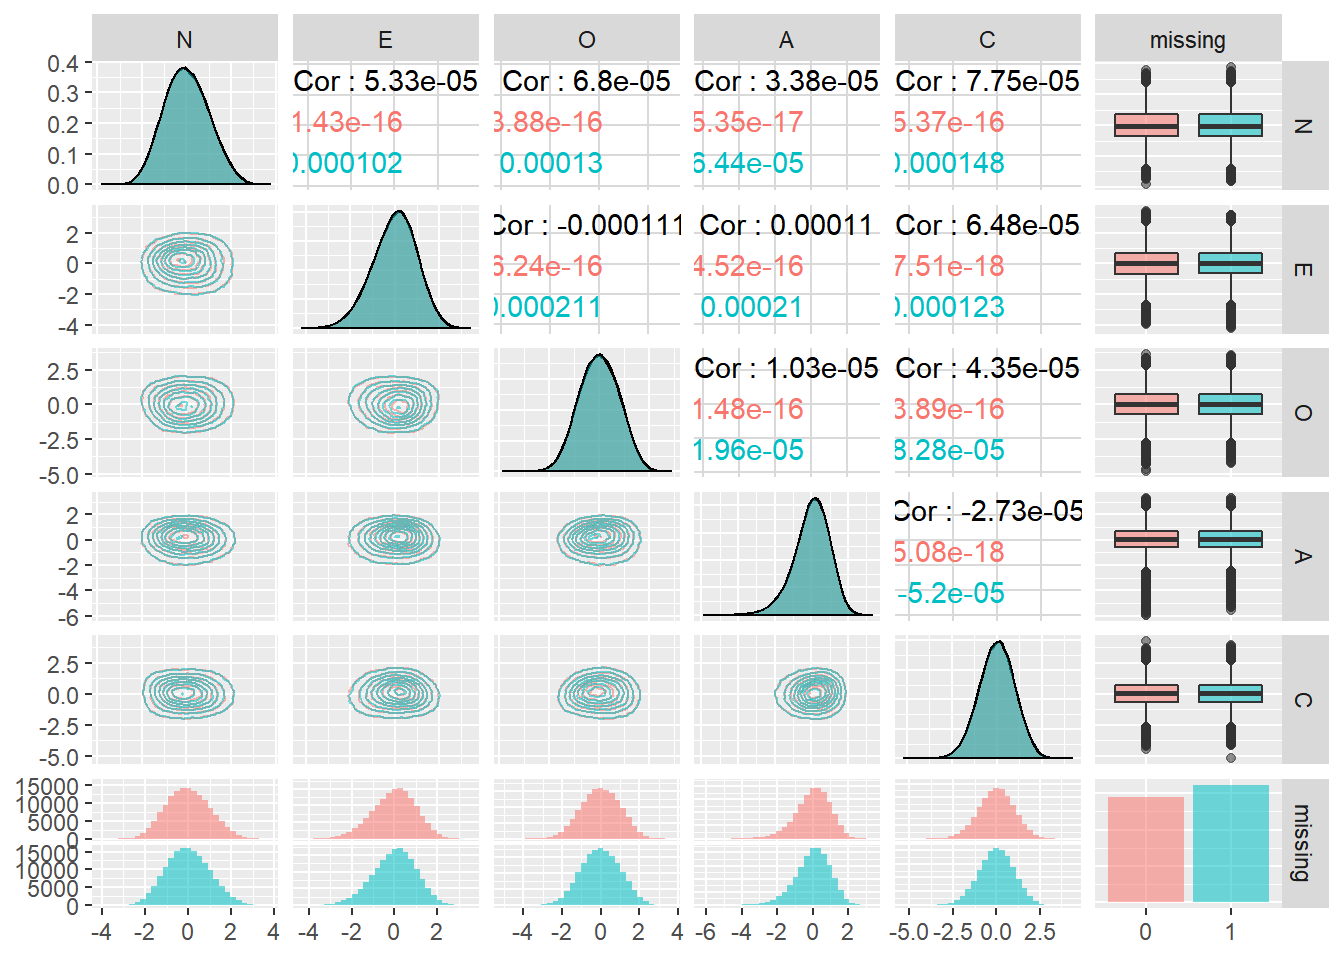
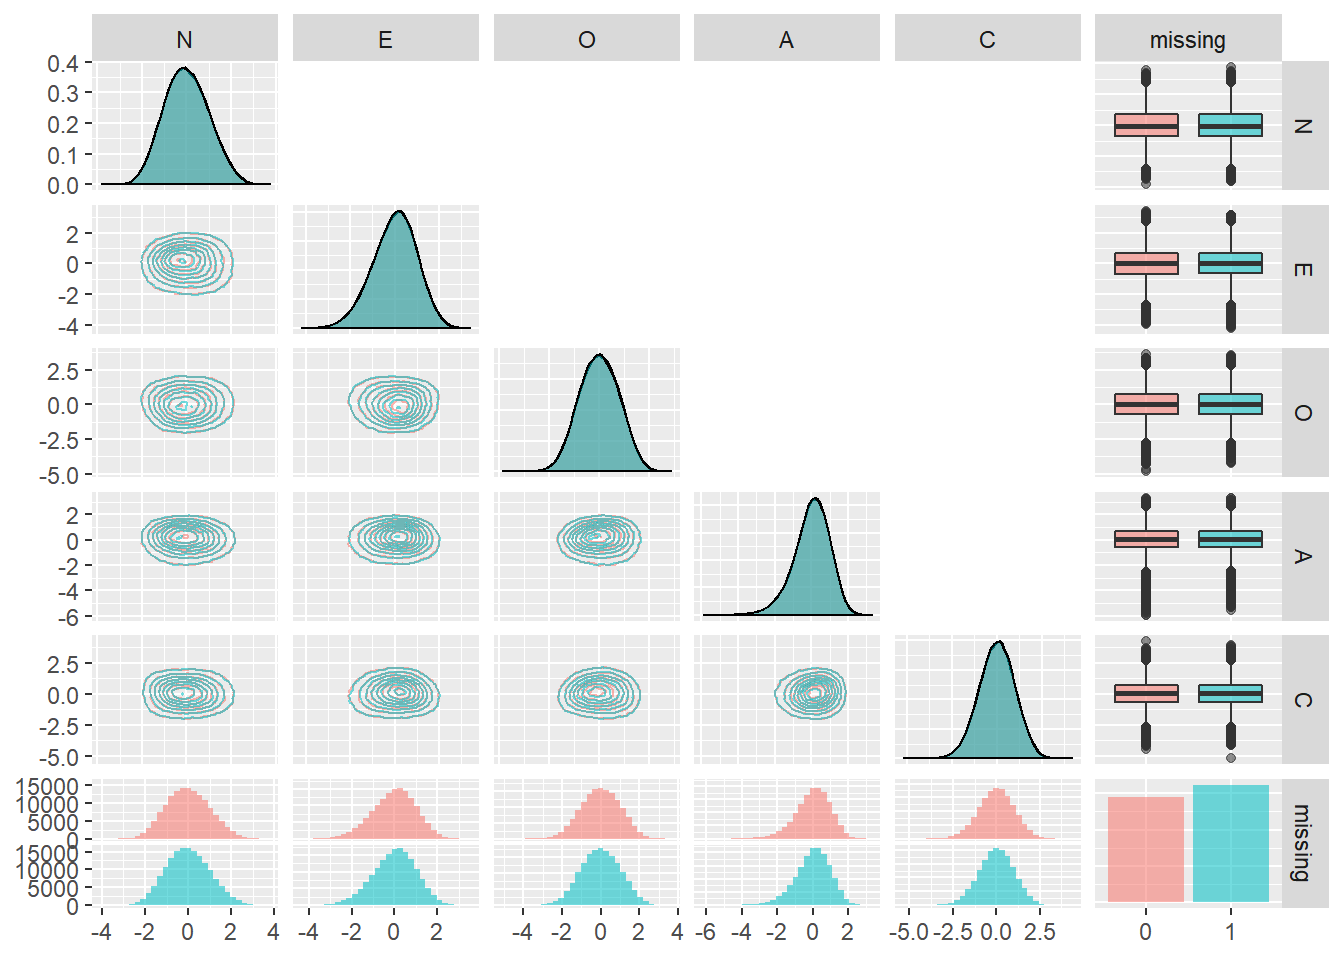
update

Changed region(s): [[0.2188, 0.0625, 0.8125, 0.1875], [0.5, 0.375, 0.8125, 0.6562], [0.3438, 0.2188, 0.8125, 0.3438]]

diff --git a/docs/analyze_IPIP300imcomplete_data.html b/docs/analyze_IPIP300imcomplete_data.html
@@ -12,7 +12,7 @@
 
 
 
-<title>実データ (Johnson-300) の解析: 回答ミスがある回答者も含める</title>
+<title>実データ (Johnson-300) の解析: 回答ミスがある回答者の分析</title>
 
 <script src="site_libs/jquery-1.11.3/jquery.min.js"></script>
 <meta name="viewport" content="width=device-width, initial-scale=1" />
@@ -368,7 +368,7 @@ div.tocify {
 
 
 
-<h1 class="title toc-ignore">実データ (Johnson-300) の解析: 回答ミスがある回答者も含める</h1>
+<h1 class="title toc-ignore">実データ (Johnson-300) の解析: 回答ミスがある回答者の分析</h1>
 
 </div>
 
@@ -380,9 +380,9 @@ div.tocify {
 library(GPArotation)
 library(tidyverse)
 library(GGally)</code></pre>
-<p>Gerlachらは，解析の際，未回答項目が1項目でもある 回答者は解析から除外していました。実は， そういう回答者は全体の半分以上もいます。それでも IPIP-NEO-300だと15万人近くいるので，十分なサンプル数は得られるのですが， 「完全にもれなく回答できる人」というサンプリングバイアスが 働いているのではないか，と気になります。 例えば，そういう人は誠実性が高い，という可能性はないでしょうか。</p>
-<p>ここでは，IPIP-NEO-300に関して，未回答項目がある回答者についても 同様の同じ因子分析モデルを用いて因子スコアを求め， 完全な回答者から系統的な違いがないか確認してみます。</p>
-<p>ここでは基本的には<a href="analyze_IPIP300.html">実データ (Johnson-300) の解析1</a>の流れ に沿って解析します。</p>
+<p>Gerlachらは，未回答項目が1項目でもある 回答者は解析から除外していました。実は， そういう回答者は全体の半分以上います。それでも IPIP-NEO-300では完全回答した回答者が15万人近くいるので，十分なサンプル数は得られるのですが，そこには 「完全にもれなく回答できる人」というサンプリングバイアスが 働いているのではないか，と気になります。 例えば，そういう人は誠実性が高い，という可能性はないでしょうか。</p>
+<p>ここでは，IPIP-NEO-300に関して，未回答項目がある回答者についても 同じ因子分析モデルを用いて因子スコアを求め， 完全な回答者との間に違いがないか確認してみます。</p>
+<p>ここでは基本的には<a href="analyze_IPIP300.html">実データ (Johnson-300) の解析1</a>の流れ に沿って分析します。</p>
 </div>
 <div class="section level2">
 <h2>データの読み込み</h2>
@@ -403,26 +403,25 @@ for (idx in 1:n.data){
   
   # 回答があるのは34列目から333列目　
   # そこを抜き出す
-  a &lt;- substring(dat.raw[[idx]],34, 333)
+  tmp &lt;- substring(dat.raw[[idx]],34, 333)
   
-  a.numeric &lt;- as.numeric( unlist(strsplit(a,&quot;&quot;)))
+  tmp.numeric &lt;- as.numeric( unlist(strsplit(tmp,&quot;&quot;)))
   
-  count.missing[idx] &lt;- sum(a.numeric == 0)
+  count.missing[idx] &lt;- sum(tmp.numeric == 0)
   
-  # 一つでも無回答 (0) がある回答者は除外する
-  if (!any(a.numeric == 0)) {
-    
+  if (!any(tmp.numeric == 0)) {
+     # 一つでも無回答 (0) がある回答者
     n.used.data &lt;- n.used.data + 1
-    dat.matrix[n.used.data,] &lt;- a.numeric 
+    dat.matrix[n.used.data,] &lt;- tmp.numeric 
     
-  } else if (sum(a.numeric == 0) &lt;= 20) {
+  } else if (sum(tmp.numeric == 0) &lt;= 20) {
     # 無回答の項目が20以下の回答者
     
     n.incomplete &lt;- n.incomplete + 1
     
     # 無回答は0になっているので，NAに
-    a.numeric[a.numeric == 0] &lt;- NA
-    dat.matrix.incomplete[n.incomplete,] &lt;- a.numeric 
+    tmp.numeric[tmp.numeric == 0] &lt;- NA
+    dat.matrix.incomplete[n.incomplete,] &lt;- tmp.numeric 
   }
 }
 
@@ -431,19 +430,19 @@ df_data &lt;- as.data.frame(dat.matrix[1:n.used.data,])
 df_data_ic &lt;- as.data.frame(dat.matrix.incomplete[1:n.incomplete,])
 
 cat(&quot;回答ミス無し回答者数:&quot;, n.used.data, 
-    &quot; 回答ミス無し回答者数:&quot;, n.incomplete,&quot;\n&quot;)</code></pre>
-<pre><code>## 回答ミス無し回答者数: 145388  回答ミス無し回答者数: 161925</code></pre>
+    &quot; 回答ミス有り回答者数:&quot;, n.incomplete,&quot;\n&quot;)</code></pre>
+<pre><code>## 回答ミス無し回答者数: 145388  回答ミス有り回答者数: 161925</code></pre>
 </div>
 <div class="section level2">
-<h2>回答ミスの分布をチェックする</h2>
+<h2>回答ミス数の分布をチェックする</h2>
 <p>無回答項目数の分布を見てみます。</p>
 <pre class="r"><code># 回答ミス数ごとの回答者数分布を棒グラフで見る
 barplot(table(count.missing),
         xlab = &quot;Number of missed items&quot;, ylab = &quot;Frequency&quot;)</code></pre>
 <p><img src="analyze_IPIP300imcomplete_data_files/figure-html/unnamed-chunk-3-1.png" width="672" /></p>
-<p>回答ミスが無い回答者が一番多く，そこから回答ミスの数が増えるごとに 回答者はほぼ半分ずつ，指数関数的に減っているようです。</p>
-<p>ここで，どの回答者もすべて同じだけの確率で回答ミスを犯す という可能性がないか考えてみます。回答ミスがなかった回答者は たまたまミスをしなかっただけで，回答ミスをした回答者とは何ら 特性は変わらない，という可能性です。もしそうだとすると， 回答ミスがあった回答者もそうでない回答者も，特性としては なんら変わらない，ということになり，これから 行う解析はあまり見込みのないものになります。</p>
-<p>回答ミスをする確率がどの質問項目，どの回答者も 一定であり，これを<span class="math inline">\(\lambda/300\)</span> とすると，(300は項目数) 個人ごとの回答ミス数の分布はパラメータ<span class="math inline">\(\lambda\)</span>の ポアソン分布に近似的に従います (例えば<a href="https://mathtrain.jp/poisson">こちら</a>を参照)。</p>
+<p>回答ミスが無い回答者が一番多く，そこから回答ミスの数が増えるごとに 回答者はほぼ半分ずつ，指数関数的に減少しているようです。</p>
+<p>ここで，どの回答者もすべて同じだけの確率で回答ミスを犯す という可能性がないか考えてみます。回答ミスがなかった回答者は たまたまミスをしなかっただけで，回答ミスをした回答者とは何ら 変わらない，という可能性です。もしそうだとすると， 回答ミスがあった回答者もそうでない回答者も，特性としては なんら変わらない，ということになり，これから 行う解析はあまり見込みのないものになります。</p>
+<p>回答ミスをする確率がどの質問項目，どの回答者も 一定であり，これを<span class="math inline">\(\lambda/300\)</span> とすると(300は項目数)， 個人ごとの回答ミス数の分布はパラメータ<span class="math inline">\(\lambda\)</span>の ポアソン分布に近似的に従います (例えば<a href="https://mathtrain.jp/poisson">こちら</a>を参照)。</p>
 <p>ポアソン分布でこの回答ミス数をフィットしてみましょう。</p>
 <pre class="r"><code># ポアソン分布の最尤推定値はデータの平均値
 lambda_est &lt;- mean(count.missing)
@@ -453,7 +452,7 @@ mp &lt;- barplot(table(count.missing)/length(count.missing),
 
 lines(mp, dpois(0:10, lambda_est),type = &quot;o&quot;)</code></pre>
 <p><img src="analyze_IPIP300imcomplete_data_files/figure-html/unnamed-chunk-4-1.png" width="672" /></p>
-<p>明らかにポアソン分布 (実線と〇) はこのデータに当てはまりません。 全回答者がそれぞれの項目で独立に同じ確率で反応ミスをしていたと 考えるには，反応ミスがゼロの回答者が多すぎるようです。 反応ミスを全くしない回答者と多少でもする回答者は 何か質的に異なるのかもしれません。 このような生成過程を仮定するモデルとして，ハードルモデル (hurdle model) が知られています。(参考: <a href="https://qiita.com/nozma/items/52211b1bacaa8a898164" class="uri">https://qiita.com/nozma/items/52211b1bacaa8a898164</a>) ここではそこまでは検討しませんが， 回答ミスの全くない回答者とそうでない回答者が何か違うかもしれないという 可能性が示唆されたので，パーソナリティにも違いがあるか見ていきましょう。</p>
+<p>明らかにポアソン分布 (実線と〇) はこのデータに当てはまりません。 全回答者がそれぞれの項目で独立に同じ確率で反応ミスをしていたと 考えるには，反応ミスがゼロの回答者が多すぎるようです。 やはり，反応ミスを全くしない回答者と多少でもする回答者は 何かが異なるのかもしれません。 このような生成過程を仮定する統計モデルとして，ハードルモデル (hurdle model) が知られています。(参考: <a href="https://qiita.com/nozma/items/52211b1bacaa8a898164" class="uri">https://qiita.com/nozma/items/52211b1bacaa8a898164</a>) ここではそこまでは検討しませんが， 回答ミスの全くない回答者とそうでない回答者が何か違うかもしれないという 可能性が示唆されたので，パーソナリティにも違いがあるか見ていきましょう。</p>
 </div>
 <div class="section level2">
 <h2>因子負荷，因子スコアの推定</h2>
@@ -515,9 +514,10 @@ g &lt;- ggplot(df_sc_g, aes(x=factor.score)) +
 g</code></pre>
 <p><img src="analyze_IPIP300imcomplete_data_files/figure-html/unnamed-chunk-9-1.png" width="672" /></p>
 <p>回答ミスなしの回答者 (ピンク)と 回答ミスありの回答者 (緑)の分布はほぼ完全に重なりました。 周辺分布を見る限りは，回答ミスの有無が パーソナリティの5因子に与える影響はなさそうです。</p>
-<p>分布が重なっているので，単純に回答ミスのない回答者は 誠実性が平均的に高い，といったようなことはなさそうです。</p>
+<p>分布が重なっているので，回答ミスのない回答者は 平均的に誠実性が高い，といったようなことはなさそうです。</p>
 <p>2次元の周辺分布も見てみましょう。</p>
 <pre class="r"><code>ggp &lt;- ggpairs(df_sc, aes(colour=missing, alpha = 0.5), 
+               upper = list(continuous=&#39;blank&#39;), 
                lower=list(continuous=&#39;density&#39;) )
 print(ggp)</code></pre>
 <p><img src="analyze_IPIP300imcomplete_data_files/figure-html/unnamed-chunk-10-1.png" width="672" /> こちらも等高線はほぼ完全に一致し，ここでもやはり反応ミスの有無が分布の形状に与える影響はなさそうです。</p>
